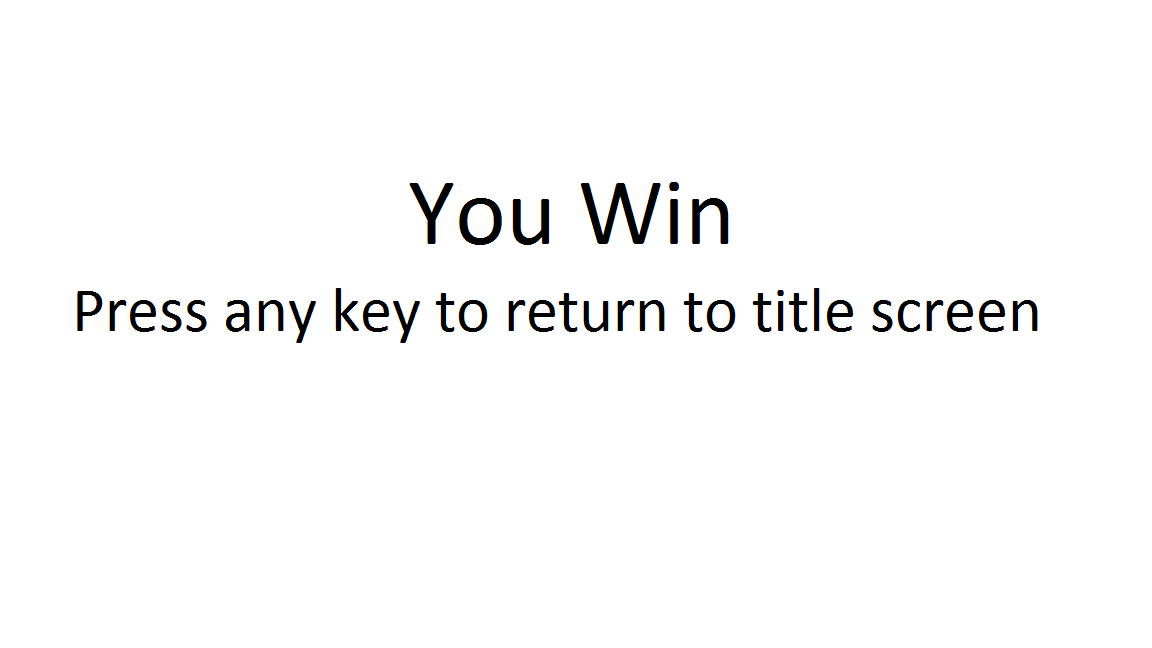
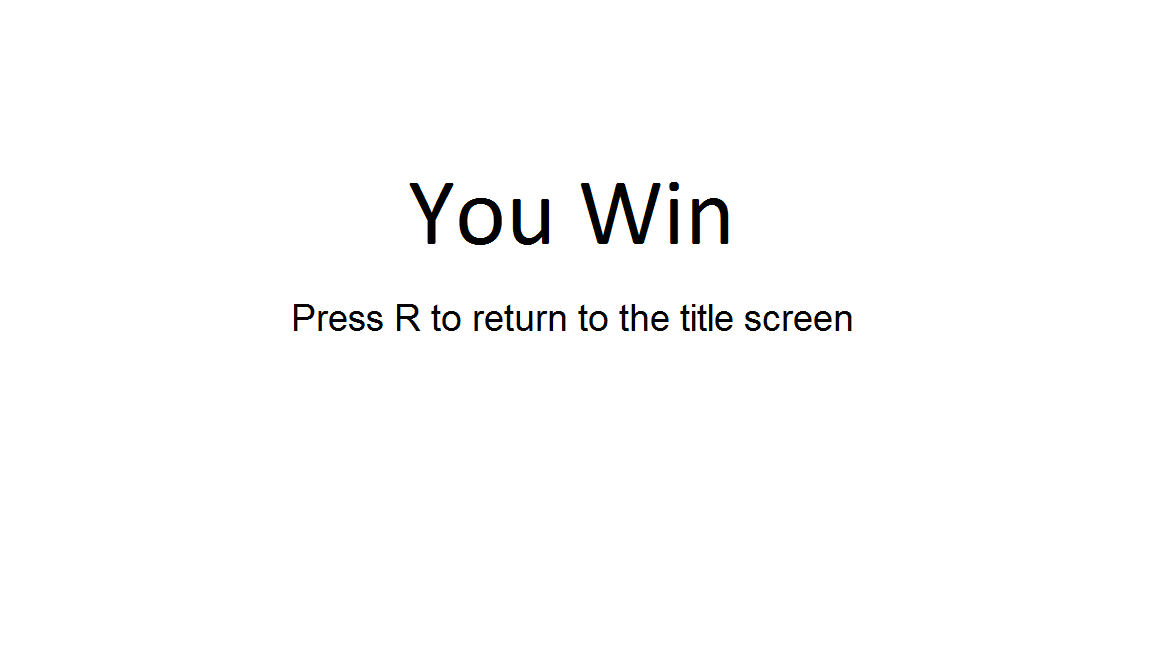
changed button for restarting game

Changed region(s): [[0.0625, 0.4321, 0.9062, 0.5247]]

diff --git a/APCSFinal/src/game/Level.java b/APCSFinal/src/game/Level.java
@@ -147,7 +147,7 @@ public class Level {
 	 */
 	public void draw(PApplet drawer) {
 		drawer.background(255);
-		Vector trans = new Vector();//moves the camera to be centered on the player but not go past the edges of the map
+		Vector trans = new Vector(0,-20);//moves the camera to be centered on the player but not go past the edges of the map
 		trans.add(new Vector(startX - (float) p.x, startY - (float) p.y));
 		if (p.x < drawer.width / 2)
 			trans.add(new Vector((float) (p.x - drawer.width / 2), 0));
@@ -169,16 +169,30 @@ public class Level {
 			for (int j = 0; j < tiles[0].length; j++) {
 				int t = Level.TILE_SIZE;
 				//drawer.rect(i*t, j*t, t, t);
-				ImageLoader.tileIndices[tiles[i][j]].draw(drawer,  i*t, j*t,t);
+				if(i*t+trans.x>-t&&i*t+trans.x<drawer.width+t&&j*t+trans.y>-t&&j*t+trans.y<drawer.height+t) {
+					if(ImageLoader.tileIndices[tiles[i][j]].getType()==1) {
+						drawer.fill(200);
+						drawer.stroke(190);
+						drawer.rect(i*t, j*t,t,t);
+					} else {
+						ImageLoader.tileIndices[tiles[i][j]].draw(drawer,  i*t, j*t,t);
+					}
+				}
+//				if(tiles[i][j]==0) {
+//					drawer.image(ImageLoader.Wall, i*t+t/2, j*t+t/2,t,t);
+//				} else {
+//					drawer.image(ImageLoader.Floor, i*t+t/2, j*t+t/2);
+//				}
 			}
 		} // draws grid overlay to debug stuff cuz tiles arent actually finished yet
+		drawer.stroke(0);
 		handleKeys();
 		p.updatePos(this);
 		handleEnemies(drawer);
 		p.draw(drawer);
+		handleProjectileCollisions();
 		drawProjectiles(drawer);
 		handleMelee();
-		handleProjectileCollisions();
 		drawer.strokeWeight(20);
 		drawer.point(mouseX, mouseY);
 		drawer.strokeWeight(1);

diff --git a/APCSFinal/src/game/Window.java b/APCSFinal/src/game/Window.java
@@ -72,7 +72,7 @@ public class Window extends PApplet{
 	 
 	public void keyPressed() {
 		keys[keyCode]=true;
-		if(keys[83])
+		if(keys[83])//s
 		{
 			if(state==GameState.START||state==GameState.INSTRUCTIONS)
 			{
@@ -80,7 +80,7 @@ public class Window extends PApplet{
 				//System.out.println("yIpeE");
 			}
 		}
-		if(keys[82])
+		if(keys[82])//r
 		{
 			if(state==GameState.INGAME)
 			{
@@ -95,7 +95,7 @@ public class Window extends PApplet{
 				restart();
 			}
 		}
-		if(keys[73]) {
+		if(keys[73]) {//i
 			if(state==GameState.START)
 			{
 				state=GameState.INSTRUCTIONS;
@@ -103,26 +103,26 @@ public class Window extends PApplet{
 		}
 		if(state==GameState.LEVEL)
 		{
-			if(keys[49])
+			if(keys[49])//1
 			{
 				currentLevel=new Level(1,1,this);
 				currentLevel.passKeysReference(keys);
 				state=GameState.INGAME;
 			}
-			if(keys[50])
+			if(keys[50])//2
 			{
 				currentLevel=new Level(2,2,this);
 				currentLevel.passKeysReference(keys);
 				state=GameState.INGAME;
 			}
-			if(keys[51])
+			if(keys[51])//3
 			{
 				currentLevel=new Level(3,3,this);
 				currentLevel.passKeysReference(keys);
 				state=GameState.INGAME;
 			}
 		}
-		if(state==GameState.WON)
+		if(state==GameState.WON&&keys[82])
 		{
 			restart();
 		}

diff --git a/APCSFinal/src/game/ImageLoader.java b/APCSFinal/src/game/ImageLoader.java
@@ -6,7 +6,7 @@ import processing.core.PImage;
 public class ImageLoader {
 	
 	private static String fs = System.getProperty("file.separator");
-	public static PImage Enemy,Player,Projectile,Player_Sword,Player_Deflecting; 
+	public static PImage Enemy,Player,Projectile,Player_Sword,Player_Deflecting;
 	public static Tile[] tileIndices = new Tile[6];
 
 	
@@ -22,6 +22,5 @@ public class ImageLoader {
 		tileIndices[5] = new Tile(p.loadImage("resources" + fs + "images" + fs + "TopRight.gif"),5);
 		tileIndices[2] = new Tile(p.loadImage("resources" + fs + "images" + fs + "BottomRight.gif"),3);
 		tileIndices[3] = new Tile(p.loadImage("resources" + fs + "images" + fs + "BottomLeft.gif"),2);
-		
 	}
 }

diff --git a/APCSFinal/src/game/Enemy.java b/APCSFinal/src/game/Enemy.java
@@ -36,7 +36,9 @@ public class Enemy extends  Character {
 		super.draw(drawer);
 		drawer.noFill();
 		drawer.ellipseMode(PApplet.CENTER);
-		drawer.ellipse(x, y,1400, 1400);
+		drawer.stroke(255,0,0);
+		drawer.ellipse(x, y,1000, 1000);
+		drawer.stroke(0);
 	}
 
 	public void act(Level l) {
@@ -47,7 +49,7 @@ public class Enemy extends  Character {
 			vel.rotate((float) (Math.random() * Math.PI * 2));
 			framesWandered = 0;
 		}
-		if(framesWithoutAttacking>45&&this.distance(l.getPlayer())<700) {
+		if(framesWithoutAttacking>45&&this.distance(l.getPlayer())<500) {
 			vel = new Vector();
 			attack(l);
 			framesWithoutAttacking=0;
